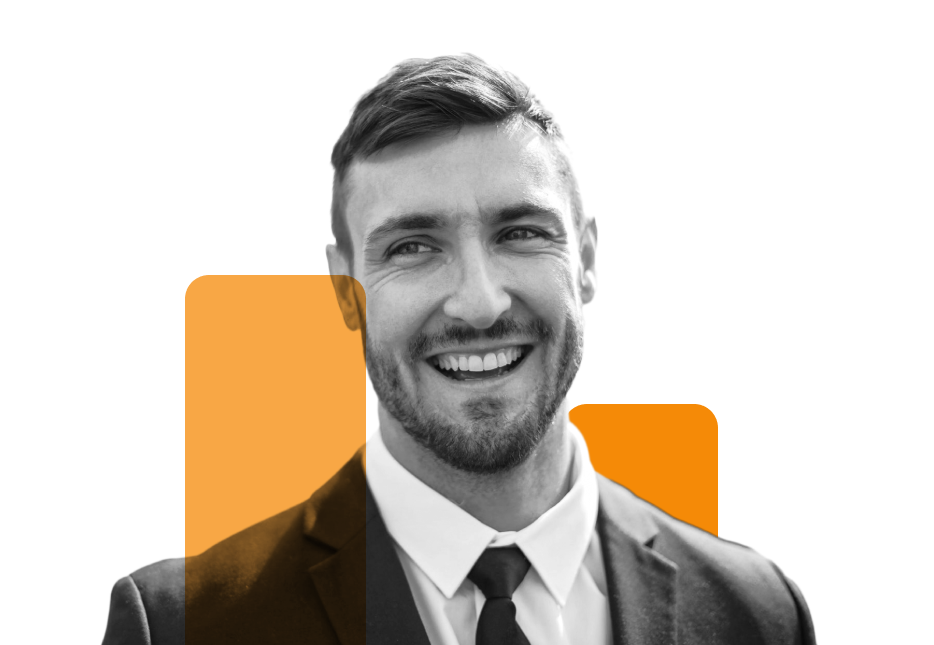
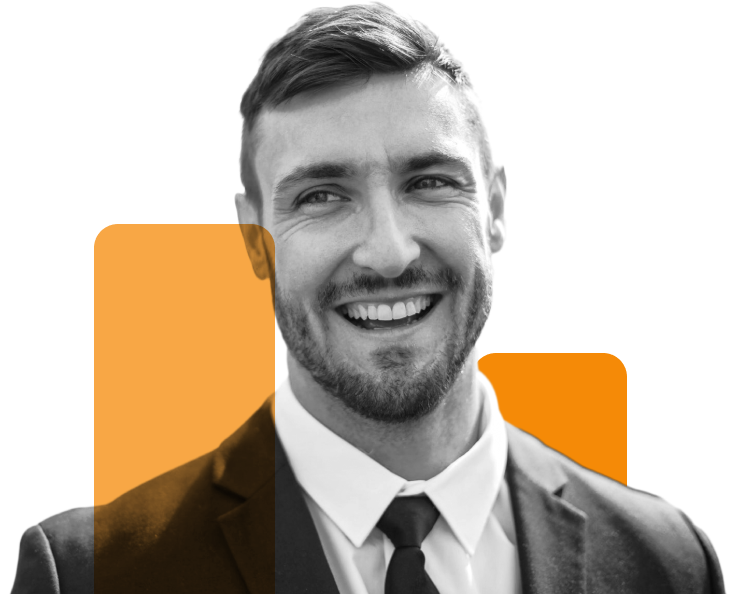
styling header section

diff --git a/index.html b/index.html
@@ -79,7 +79,7 @@
                 </p>
               </div>
               <div class="header-CTA mt-4">
-                <button type="button" class="btn btn-warning">
+                <button type="button" class="btn btn-warning my-2">
                   See our services
                 </button>
                 <button type="button" class="btn btn-outline-warning">
@@ -97,9 +97,9 @@
                 </div>
               </div>
             </div>
-            <div class="header-img-wrapper col-md-7 col-lg-6">
+            <div class="header-img-wrapper col-md-7 col-lg-6 overflow-hidden">
               <img
-                class="img-fluid mt-5"
+                class="img-fit-cover mt-5"
                 src="./images/Herosection-Img.png"
                 alt="heroSectionImg"
                 srcset=""
@@ -207,10 +207,10 @@
         <div class="container position-relative">
           <div class="row row-cols-2">
             <div class="text-wrapper col-12 col-md-6 py-4 py-md-5">
-              <h2>
+              <h2 class="cl-primary-800">
                 The energy of a start-up combined with 30 years of experience.
               </h2>
-              <p class="mt-3">
+              <p class="mt-3 cl-battelshipGrey-600">
                 Lorem ipsum dolor sit amet, consectetur adipiscing elit.
                 Curabitur sit amet eros blandit, hendrerit elit et, mattis
                 purus. Vivamus commodo suscipit tellus et pellentesque.
@@ -218,16 +218,16 @@
               <div class="about-features-wrapper row row-cols-2 mt-5">
                 <div class="about-feature col-12 col-sm-6">
                   <span class="h2 cl-primary"> 15+ </span>
-                  <h5>Awards received</h5>
-                  <p>
+                  <h5 class="cl-primary-800">Awards received</h5>
+                  <p class="cl-battelshipGrey-600">
                     Lorem ipsum dolor sit amet, consectetur adipiscin. Curabitur
                     sit amet eros elit et.
                   </p>
                 </div>
                 <div class="about-feature col-12 col-sm-6">
                   <span class="h2 cl-primary"> 500+ </span>
-                  <h5>Clients served</h5>
-                  <p>
+                  <h5 class="cl-primary-800">Clients served</h5>
+                  <p class="cl-battelshipGrey-600">
                     Lorem ipsum dolor sit amet, consectetur adipiscin. Curabitur
                     sit amet eros elit et.
                   </p>
@@ -283,11 +283,13 @@
                 <div
                   class="text-wrapper col-12 col-md-6 py-4 py-md-5 order-2 order-md-1"
                 >
-                  <h2>
+                  <h2 class="cl-primary-800">
                     Helping clients with research and strategy for their
                     business
                   </h2>
-                  <div class="p-body mt-3 mt-sm-4 mt-md-5">
+                  <div
+                    class="p-body mt-3 mt-sm-4 mt-md-5 cl-battelshipGrey-600"
+                  >
                     <p>
                       Lorem ipsum dolor sit amet, consectetur adipiscing elit.
                       Curabitur sit amet eros blandit, hendrerit elit et, mattis
